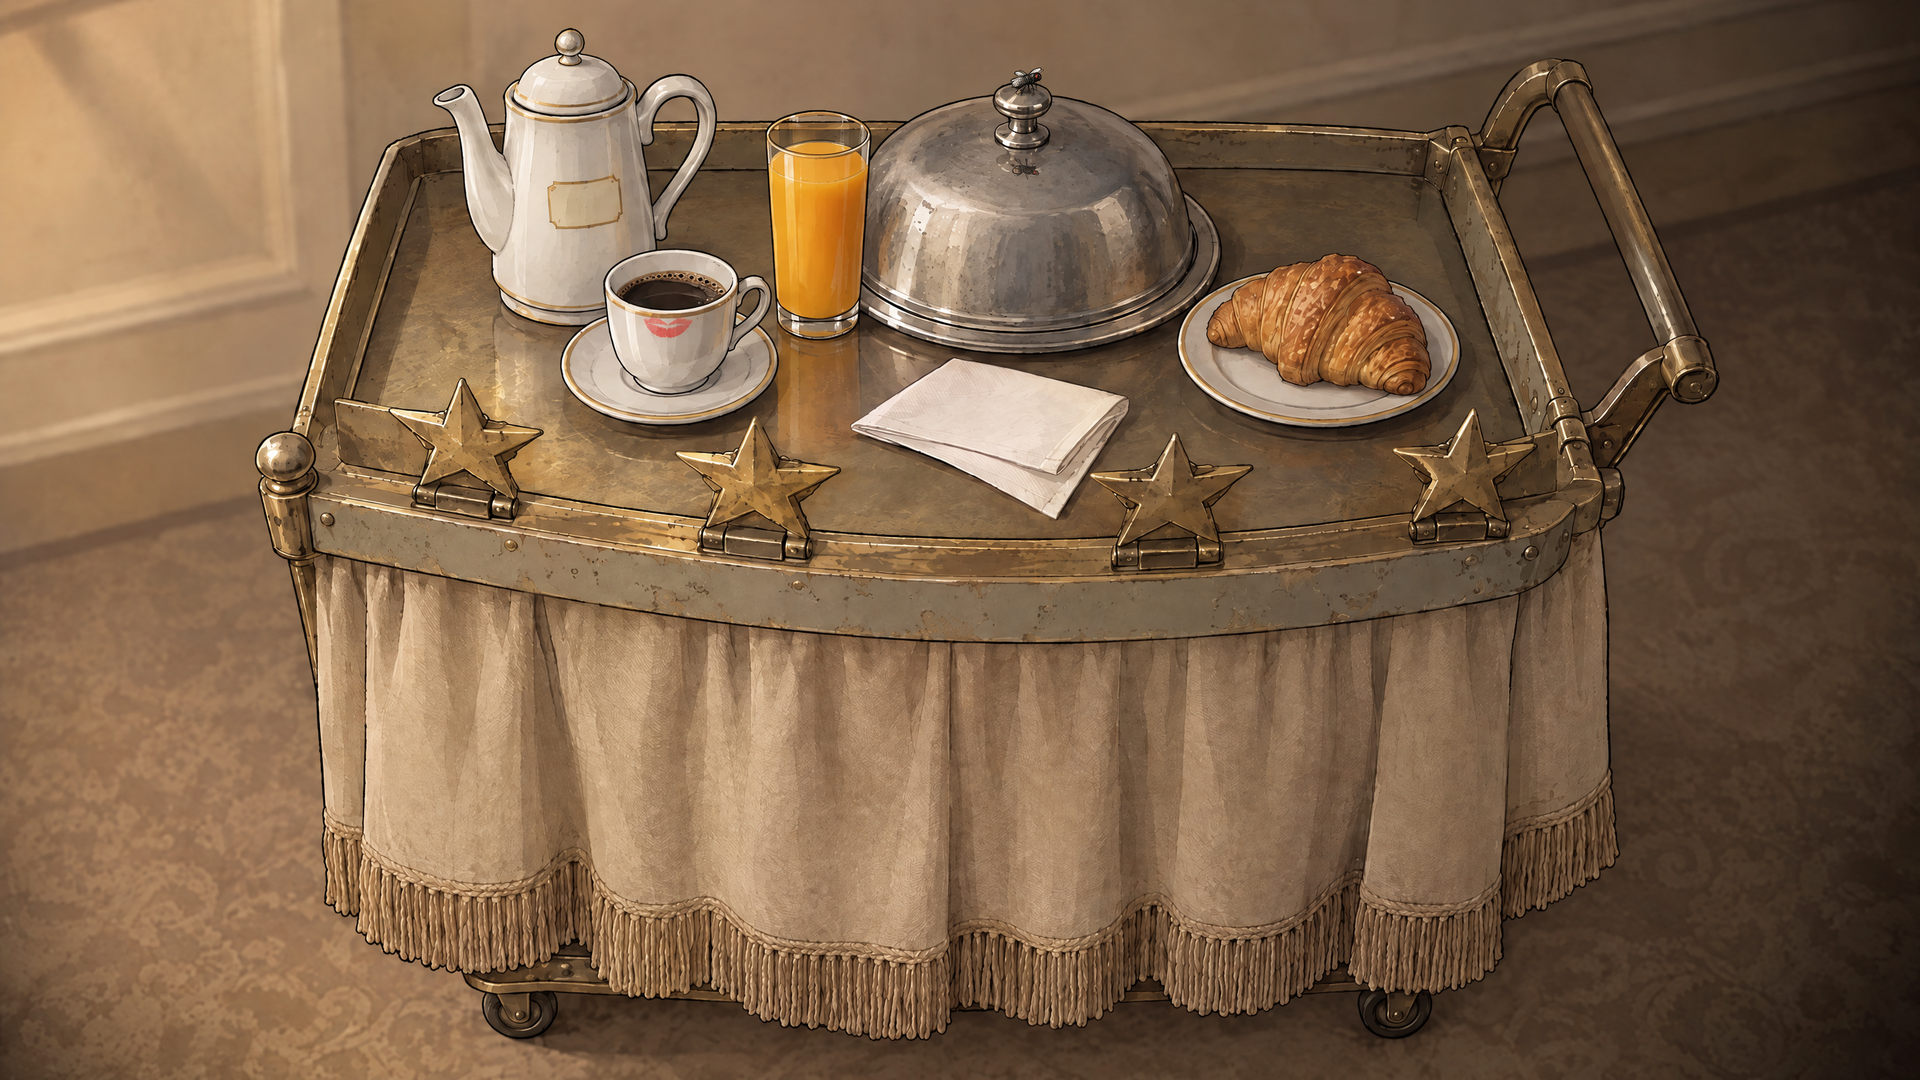
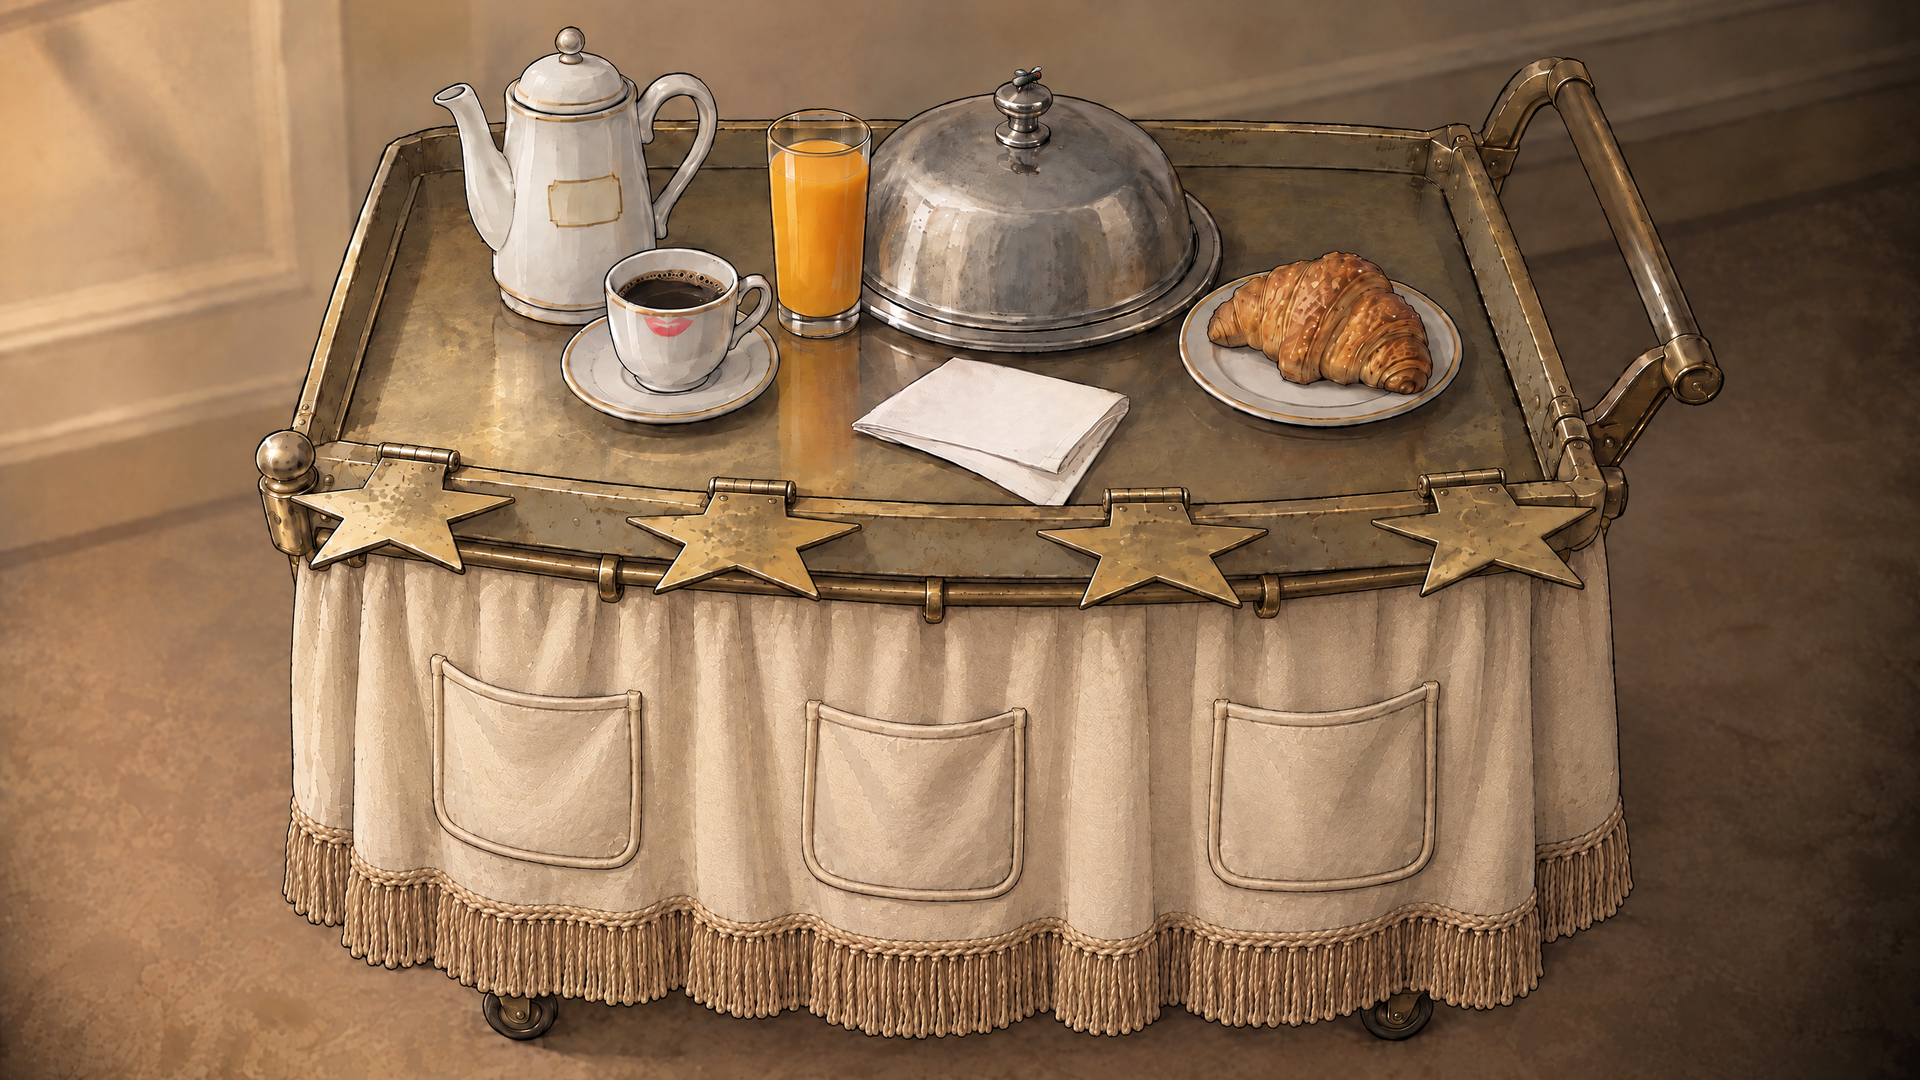
Новый Z03 принят автором (вариант 2); состояния Z03 на приёмку: звёзды откинуты, шторка (два варианта), сок
Claude-Session: https://claude.ai/code/session_01KtQKgqP4XoDbZ9H4UhrjXu

diff --git a/work/higgsfield/candidates/cutouts_1010/README.md b/work/higgsfield/candidates/cutouts_1010/README.md
@@ -1,0 +1,13 @@
+# Кандидаты 10.10.2026: состояния нового Z03 (тележка по решению автора)
+
+База — принятый `assets/gfx/zooms/zoom_z03.png` (job fe15a490, 10.10.2026). Кадры-варианты — `zoom_z03__st_z03_*.png` здесь же.
+После приёмки — повторный запуск `tools/assets/cutout.py` без `--out`.
+
+| Состояние | Вариант (job) | Вырезка |
+|---|---|---|
+| `st_z03_stars_folded` | ccfc9717 (проба 2: контур юбки совпал с базой; проба 1 ba775b23 — юбка уже, шов по бокам) | `--box 160,380,1760,720 --thresh 30 --open 3 --close 21 --align 8 --grow 8 --feather 3` |
+| `st_z03_skirt_open` (А, шторка вправо) | f3e80c9a | `--box 200,440,1760,1080 --thresh 18 --open 3 --close 41 --align 8 --grow 10 --feather 3` |
+| `st_z03_skirt_open` (Б, шторка влево; `alt/`) | 996db328 | то же |
+| `st_z03_juice_empty` | 61ea23c9 | `--box 720,40,920,340 --thresh 18 --open 1 --close 15 --align 8 --grow 5 --feather 3` |
+
+Нужен ещё кадр «шторка отодвинута при откинутых звёздах» (A04 возможна и после A06): слои `stars_folded` и `skirt_open` друг на друга чисто не ложатся — рисуется после выбора варианта шторки.
